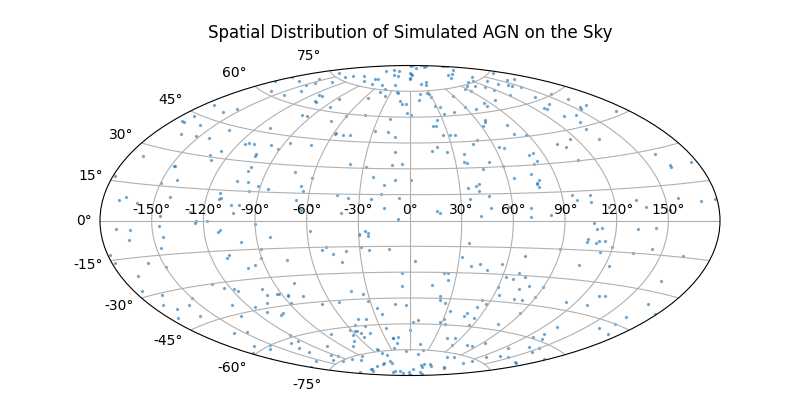
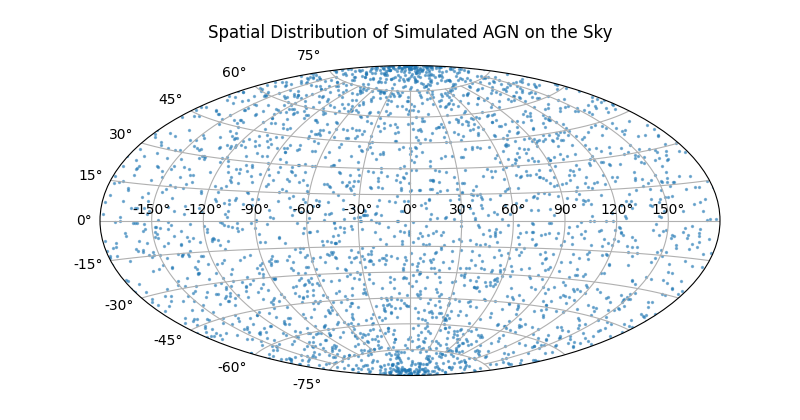
Fixed AGN luminosity function.

diff --git a/data_simulation/source_generation/agn_generation.py b/data_simulation/source_generation/agn_generation.py
@@ -1,9 +1,9 @@
 from . agn_spectral_parameters import agn_flux_density, agn_spectral_slope, energy_flux_agn
-from astropy import units as u
+from astropy.table import QTable
+from math import floor
 import numpy as np
 
 import matplotlib.pyplot as plt
-
 
 # GENERATE FIXED NUMBER OF AGNS WITHIN GIVEN ENERGY FLUX RANGE FOR FLAT EXTRAPOLATION AT LOWER ENERGY FLUXES
 def agn_generator(agn_stats, energy_flux_low=0., energy_flux_high=1000.):
@@ -56,7 +56,86 @@ def agn_generator(agn_stats, energy_flux_low=0., energy_flux_high=1000.):
             return np.array([pivot_energy, flux_density, spectral_slope, beta, energy_flux, longitude, latitude])
 
 
-def generate_mock_agn_catalog(agn_data, num_agns=200, detection_threshold=np.float64(1.0 * 10 ** (-12))):
+def luminosity_function_agn(catalog: str, detection_threshold):
+
+    # Used to build luminosity function of the simulated AGNs
+
+    # Read 4FGL Catalog
+    catalog = QTable.read(catalog, format='fits', hdu=1)['CLASS1', 'Energy_Flux100']
+
+    # Reformat columns
+    catalog['CLASS1'] = np.asarray([k.decode('utf-8').strip().lower() for k in catalog['CLASS1'].value.filled('-')])
+
+    # Select all rows that describe AGN
+    agn_mask = np.isin(catalog['CLASS1'].data, np.array(['bcu', 'sey', 'ssrq', 'bll', 'fsrq', 'rdg', 'nlsy1', 'agn']))
+    agns = catalog[agn_mask]
+
+    energy_fluxes_4fgl = agns['Energy_Flux100'].value
+
+    # Number of sources in the lowest energy flux bin
+    n_min = np.random.uniform(low=50, high=250)
+
+    # The minimum energy flux of our generated sources is an order of magnitude less than the 4FGL
+    our_threshold = detection_threshold / 10
+
+    # Following method detailed in ID8
+
+    # Bin 4FGL data
+    min_bin_val = np.log10(np.min(energy_fluxes_4fgl))
+    max_bin_val = np.log10(np.max(energy_fluxes_4fgl))
+
+    log_linspace = np.linspace(min_bin_val, max_bin_val)
+
+    bin_edges = 10 ** log_linspace
+    counts, bin_intervals = np.histogram(energy_fluxes_4fgl, bins=bin_edges)
+
+    # Calculate width of bins
+    bin_width = log_linspace[1] - log_linspace[0]
+
+    # Number of bins between current lowest energy bin and our faint source threshold
+    num_extra_bins = floor((np.log10(bin_intervals[0]) - np.log10(our_threshold)) / bin_width)
+
+    extra_intervals = [10 ** (np.log10(bin_intervals[0]) - (bin_width * x)) for x in range(num_extra_bins, 0, -1)]
+
+    # Create extra bin intervals
+
+    # Calculate number of random
+
+    # Find bin with the most AGNs
+    peak = np.argmax(counts)
+
+    # For any bin to the right of the peak that has 0 or 1 expected counts, set to 2
+    for k in range(peak, len(counts)):
+        if counts[k] == 1 or counts[k] == 0:
+            counts[k] = 2
+
+    # Generate random numbers for number of energy flux bins to the right of the peak
+    n_noise = list(np.random.uniform(low=0.8, high=1.3, size=len(bin_intervals) - 1 - peak))
+
+    # Create some noise in energy bins greater than peak
+    for k in range(peak, len(n_noise)):
+        counts[k + peak] = counts[k + peak] * n_noise[k]
+
+    bin_intervals = np.array(extra_intervals + list(bin_intervals))
+
+    # Set number of counts equal to peak for original 4FGL bins to the left of the peak
+    for k in range(0, peak):
+        counts[k] = n_min
+
+    counts = [0 for _ in range(num_extra_bins)] + list(counts)
+
+    for k in range(0, num_extra_bins):
+        counts[k] = n_min
+
+    # Convert counts to int
+    counts = [int(k) for k in counts]
+
+    peak = peak + num_extra_bins
+
+    return np.array([counts])[0], np.array(bin_intervals), peak
+
+
+def generate_mock_agn_catalog(catalog, agn_data, num_agns=200, detection_threshold=np.float64(1.0 * 10 ** (-12))):
 
     # Changed threshold from 2.0 * 10 ** -12 TO 1.0 * 10 ** -12 as threshold recommended by 4FGL DR4 (ID22) paper for
     # outside galactic plane and detection threshold has decreased since ID8 was published
@@ -76,47 +155,78 @@ def generate_mock_agn_catalog(agn_data, num_agns=200, detection_threshold=np.flo
 
     # CREATE NEW SOURCES
 
+    target_counts, target_bin_intervals, target_peak = luminosity_function_agn(catalog=catalog,
+                                                                               detection_threshold=detection_threshold)
+
+    actual_counts = np.zeros_like(target_counts)
+
     parameters = []
 
-    for x in range(num_agns):
+    while (actual_counts[0] < target_counts[0]) and np.any(np.less(actual_counts[target_peak:], target_counts[target_peak:])):
+
+        # new_source = agn_generator((mean_log_pivot_energy_agn, std_log_pivot_energy_agn, betas_agn),
+        #                            energy_flux_low=detection_threshold, energy_flux_high=1000)
+
+        # Due to uncomplementary functionality - need max of intervals[:-1] - see reference Digitize Error
         new_source = agn_generator((mean_log_pivot_energy_agn, std_log_pivot_energy_agn, betas_agn),
-                                    energy_flux_low=detection_threshold, energy_flux_high=1000)
-        parameters.append(np.array(new_source))
+                                   energy_flux_low=np.min(target_bin_intervals), energy_flux_high=np.max(target_bin_intervals[:-1]))
 
-    parameters = np.array(parameters)
+        idx = np.digitize(new_source[4], target_bin_intervals)
 
-    # FAINT SOURCE FLAT EXTRAPOLATION
+        if idx > 0 and idx < len(target_bin_intervals):
 
-    # Flat extrapolation of AGN - assume constant below given threshold (not Gaussian)
+            if actual_counts[idx] < target_counts[idx]:
 
-    # Bin data and take average of first three
-    bin_edges = 10 ** np.linspace(-14, -9)
-    counts, _ = np.histogram(parameters[:, 4], bins=bin_edges)
+                parameters.append(np.array(new_source))
+                actual_counts[idx] += 1
 
-    # Take average number of sources of first five bins that contain some sources for flat extrapolation
-    first_non_empty_bin = np.nonzero(counts)[0][0]
-    mean_counts_per_bin, std_counts_per_bin = (np.mean(counts[first_non_empty_bin: first_non_empty_bin + 10]),
-                                               np.std(counts[first_non_empty_bin: first_non_empty_bin + 10], ddof=1))
+        else:
 
-    faint_sources = []
+            parameters.append(np.array(new_source))
+            actual_counts[idx] += 1
 
-    # Extend to one order of magnitude less than the detection threshold of the 4FGL (similar premise to ID8)
-    our_threshold = np.argwhere(bin_edges >= detection_threshold / 10)[0][0]
 
-    for x in range(our_threshold, first_non_empty_bin):
-
-        # Generate number of sources in bin - approximately flat/same as bins at peak
-        counts_per_bin_flat_extrapolation = round(np.random.normal(loc=mean_counts_per_bin, scale=std_counts_per_bin))
-
-        for k in range(counts_per_bin_flat_extrapolation):
-            new_source = agn_generator((mean_log_pivot_energy_agn, std_log_pivot_energy_agn, betas_agn),
-                                        bin_edges[x], bin_edges[x + 1])
-
-            faint_sources.append(new_source)
-
-    faint_sources = np.asarray(faint_sources)
-
-    parameters = np.vstack((parameters, faint_sources))
+    # parameters = []
+    #
+    # for x in range(num_agns):
+    #     new_source = agn_generator((mean_log_pivot_energy_agn, std_log_pivot_energy_agn, betas_agn),
+    #                                 energy_flux_low=detection_threshold, energy_flux_high=1000)
+    #     parameters.append(np.array(new_source))
+    #
+    # parameters = np.array(parameters)
+    #
+    # # FAINT SOURCE FLAT EXTRAPOLATION
+    #
+    # # Flat extrapolation of AGN - assume constant below given threshold (not Gaussian)
+    #
+    # # Bin data and take average of first three
+    # bin_edges = 10 ** np.linspace(-14, -9)
+    # counts, _ = np.histogram(parameters[:, 4], bins=bin_edges)
+    #
+    # # Take average number of sources of first five bins that contain some sources for flat extrapolation
+    # first_non_empty_bin = np.nonzero(counts)[0][0]
+    # mean_counts_per_bin, std_counts_per_bin = (np.mean(counts[first_non_empty_bin: first_non_empty_bin + 10]),
+    #                                            np.std(counts[first_non_empty_bin: first_non_empty_bin + 10], ddof=1))
+    #
+    # faint_sources = []
+    #
+    # # Extend to one order of magnitude less than the detection threshold of the 4FGL (similar premise to ID8)
+    # our_threshold = np.argwhere(bin_edges >= detection_threshold / 10)[0][0]
+    #
+    # for x in range(our_threshold, first_non_empty_bin):
+    #
+    #     # Generate number of sources in bin - approximately flat/same as bins at peak
+    #     counts_per_bin_flat_extrapolation = round(np.random.normal(loc=mean_counts_per_bin, scale=std_counts_per_bin))
+    #
+    #     for k in range(counts_per_bin_flat_extrapolation):
+    #         new_source = agn_generator((mean_log_pivot_energy_agn, std_log_pivot_energy_agn, betas_agn),
+    #                                     bin_edges[x], bin_edges[x + 1])
+    #
+    #         faint_sources.append(new_source)
+    #
+    # faint_sources = np.asarray(faint_sources)
+    #
+    # parameters = np.vstack((parameters, faint_sources))
 
     # CHECK SIMULATED FLUX DENSITIES AND PIVOT ENERGIES HAVE SAME CORRELATION AS IN 4FGL
     # plt.title('Simulated $F_0$ against $E_0$')
@@ -132,9 +242,10 @@ def generate_mock_agn_catalog(agn_data, num_agns=200, detection_threshold=np.flo
     # plt.scatter(parameters[:, 0], parameters[:, 2], s=2)
     # plt.show()
 
-    return parameters
+    return np.array(parameters)
 
 
 # REFERENCES
 
+# Digitise Error - https://stackoverflow.com/questions/4355132/numpy-digitize-returns-values-out-of-range
 # Numpy Float Handling - https://stackoverflow.com/questions/58083198/how-to-handle-both-float-and-array-input-in-python

diff --git a/data_simulation/create_mock_catalog.py b/data_simulation/create_mock_catalog.py
@@ -228,63 +228,6 @@ def verification(simulated_agns, simulated_pulsars, directory="./plots/verificat
                               directory=directory)
 
 
-def luminosity_function_agn(energy_fluxes_4fgl, detection_threshold):
-
-    # Number of sources in lowest energy flux bin
-    n_min = np.random.uniform(low=50, high=250)
-
-    # THIS DETERMINES THE LUMINOSITY FUNCTION OF MOCK CATALOG - NOT FINISHED YET
-
-    # The minimum energy flux of our generated sources is an order of magnitude less than the 4FGL
-    our_threshold = detection_threshold / 10
-
-    # Following method detailed in ID8
-
-    # Bin 4FGL data
-    min_bin_val = np.log10(np.max(energy_fluxes_4fgl))
-    max_bin_val = np.log10(np.max(energy_fluxes_4fgl))
-
-    bin_edges = 10 ** np.linspace(min_bin_val, max_bin_val)
-    counts, bin_intervals = np.histogram(energy_fluxes_4fgl, bins=bin_edges)
-
-    # Calculate width of bins
-    bin_width = bin_intervals[1] - bin_intervals
-
-    # Number of bins between current lowest energy bin and our faint source threshold
-    num_extra_bins = floor((bin_intervals[0] - our_threshold) / bin_width)
-
-    # Create extra bin intervals
-    extra_bin_intervals = [bin_intervals[0] - (k * bin_width) for k in range(num_extra_bins - 1, -1, - 1)]
-
-    # Calculate number of random
-
-    # Find bin with the most number of AGNs
-    peak = np.argmax(counts)
-
-    # Generate random numbers for number of energy flux bins to the right of the peak
-    n_noise = np.random.uniform(low=0.8, high=1.3, size=len(bin_intervals) - peak)
-
-    # Create some noise in energy bins greater than peak
-    for k in range(peak, len(counts)):
-        counts[k] = counts[k] * n_noise[k]
-
-    bin_intervals = np.array(extra_bin_intervals + list(bin_intervals))
-
-    # Set number of counts equal to peak for original 4FGL bins to the left of the peak
-    for k in range(0, peak):
-        counts = n_min
-
-    counts = [0 for 0 in range(len(bin_intervals))] + counts
-
-    for k in range(0, len(extra_bin_intervals)):
-        counts = n_min
-        
-    # New peak
-    peak = np.argmax(counts)
-
-    return counts, bin_intervals, peak
-
-
 # MAIN PROGRAM
 
 print("starting catalog simulation...")
@@ -297,11 +240,11 @@ agn_rows, pulsar_rows, source_detection_threshold, fluxes_4fgl = catalog_data_pr
 
 # Analyse parameters, their distributions, and their correlations
 
-analysis(agn_rows, pulsar_rows)
+# analysis(agn_rows, pulsar_rows)
 
 # Generate simulated AGN sources
 
-agns = generate_mock_agn_catalog(agn_rows.copy(), num_agns=1000, detection_threshold=source_detection_threshold)
+agns = generate_mock_agn_catalog(file, agn_rows.copy(), num_agns=1000, detection_threshold=source_detection_threshold)
 
 # Generate simulated pulsar sources
 
